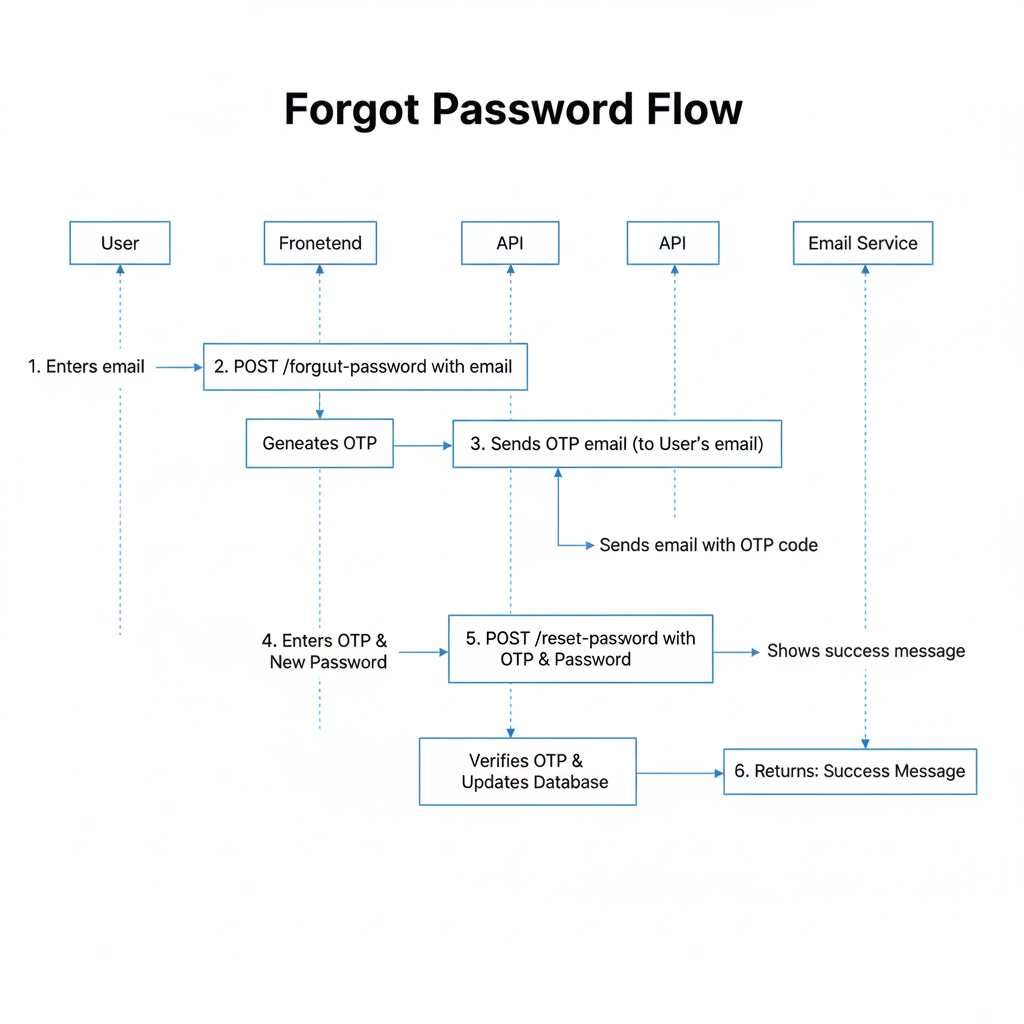
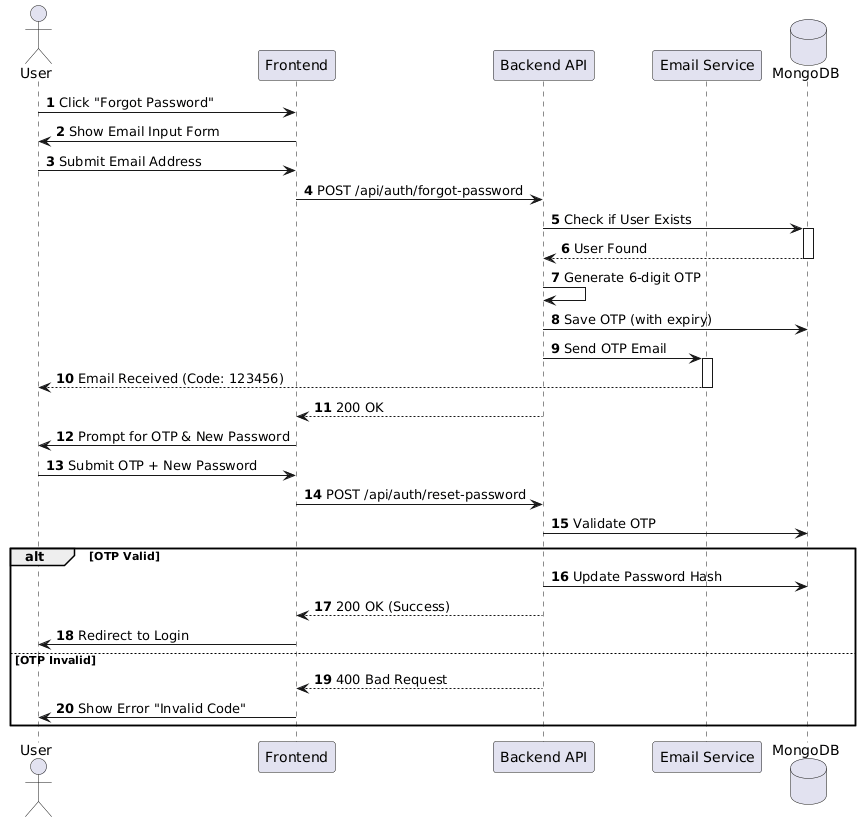
documentation

diff --git a/README.md b/README.md
@@ -67,8 +67,6 @@ The system follows a modern **Microservices** pattern, separating the interactiv
 
 Our data model is designed for scalability and quick retrieval of user progress and gamification stats.
 
-![Database ER Diagram](assets/database-schema.png)
-
 **Key Entities:**
 -   **Users**: Stores profiles, roles, and point balances.
 -   **Tasks**: Defines eco-activities and their point values.
@@ -79,17 +77,15 @@ Our data model is designed for scalability and quick retrieval of user progress 
 
 ## 🔄 User Workflows
 
-### 1. User Login Flow
-Secure authentication process using custom JWT-based session management.
-![Login Flow](assets/login-flow.png)
+We have generated detailed UML diagrams to visualize the system structure and flows. You can find the source files in the `assets/` folder.
 
-### 2. Forgot Password Flow
-Secure password recovery using OTP via email.
-![Forgot Password Flow](assets/forgot-password-flow.png)
-
-### 3. Gamification Logic
-The core loop of the application: Task -> Submission -> Verification -> Reward.
-![Gamification Flow](assets/gamification-flow.png)
+| Diagram | Description | View |
+| :--- | :--- | :--- |
+| **System Architecture** | High-level components and data flow. | ![System Architecture](assets/system-architecture.png) |
+| **Database Schema** | Entity relationships (User, Task, Submission). | ![Database Schema](assets/database-schema.png) |
+| **User Login Flow** | Step-by-step authentication process. | ![Login Flow](assets/login-flow.png) |
+| **Forgot Password** | Password recovery sequence. | ![Forgot Password](assets/forgot-password-flow.png) |
+| **Gamification Flow** | From task selection to badge rewards. | ![Gamification](assets/gamification-flow.png)
 
 ---
 
